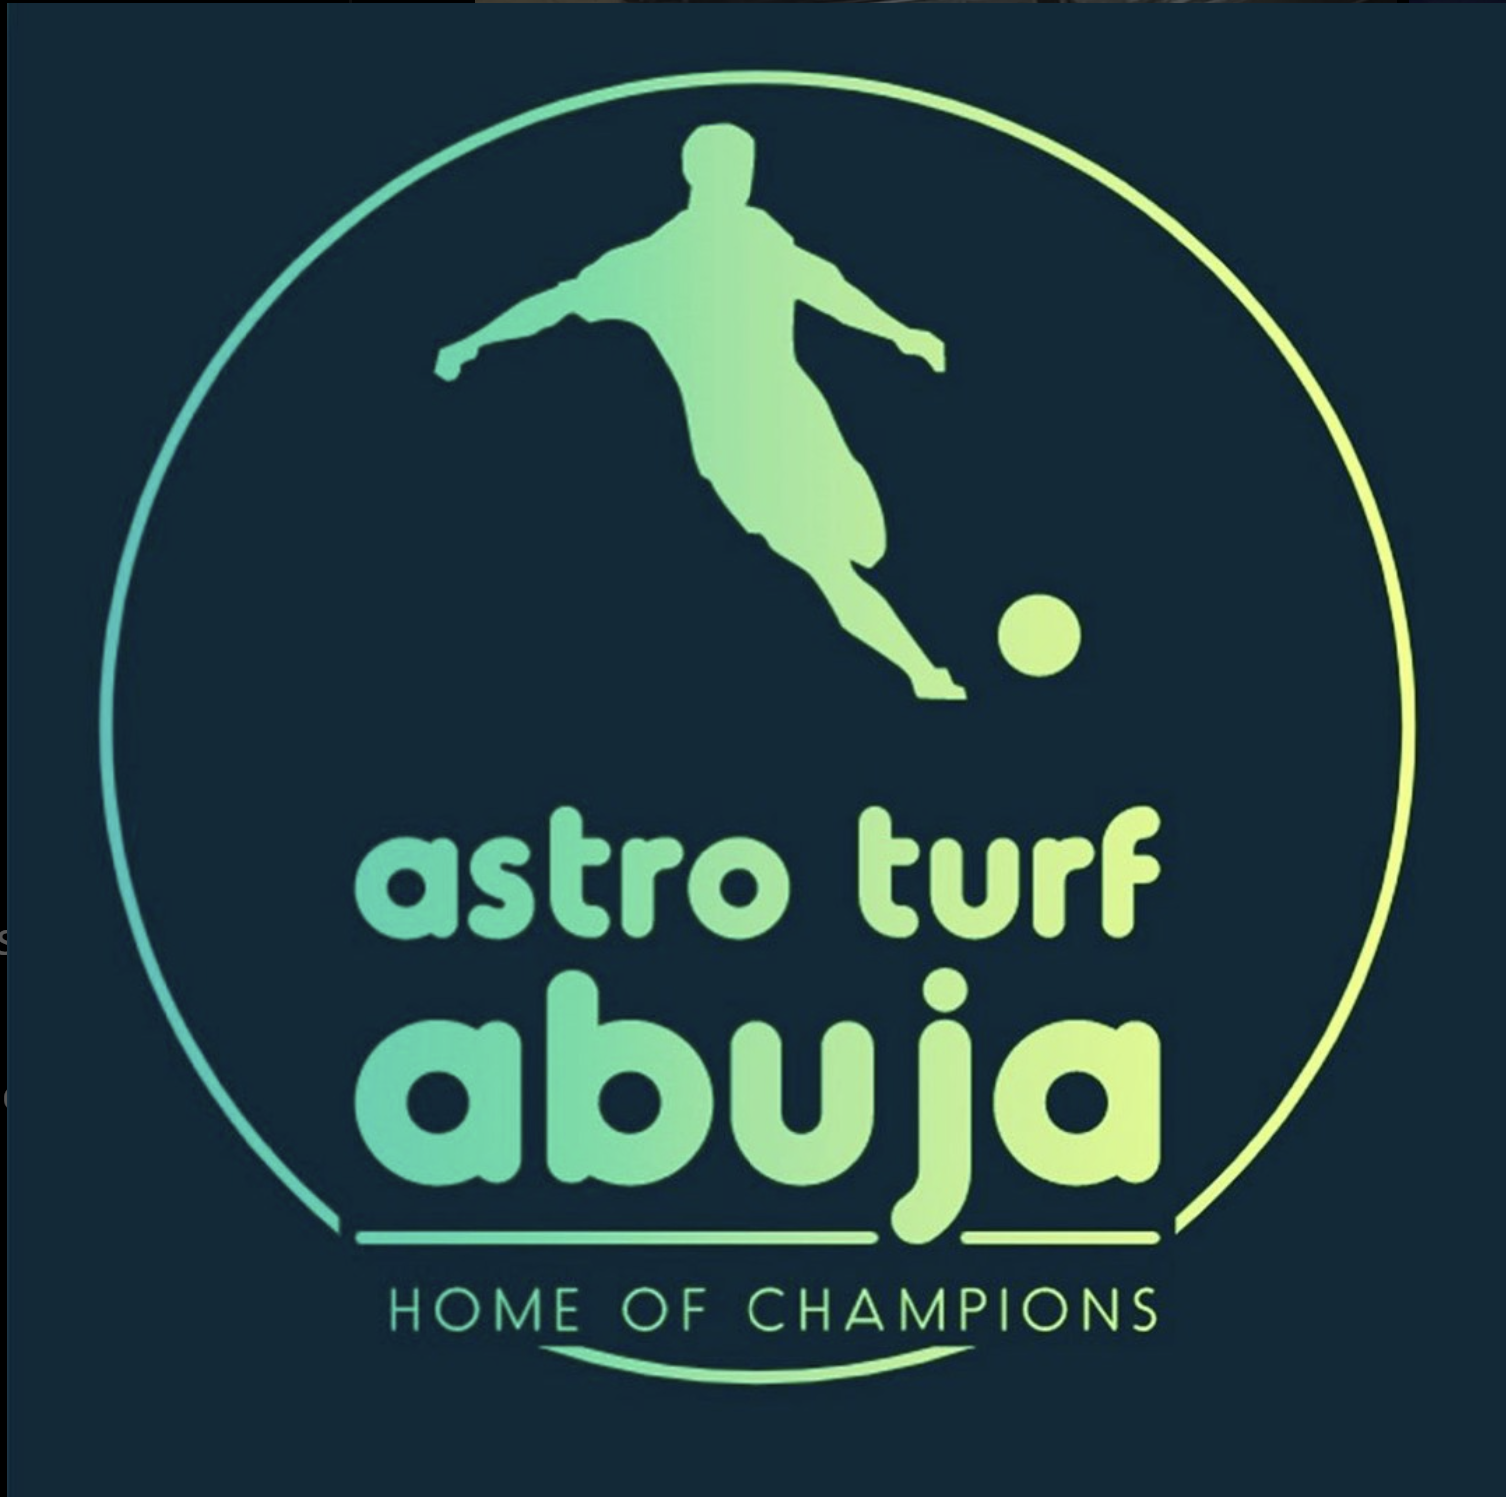
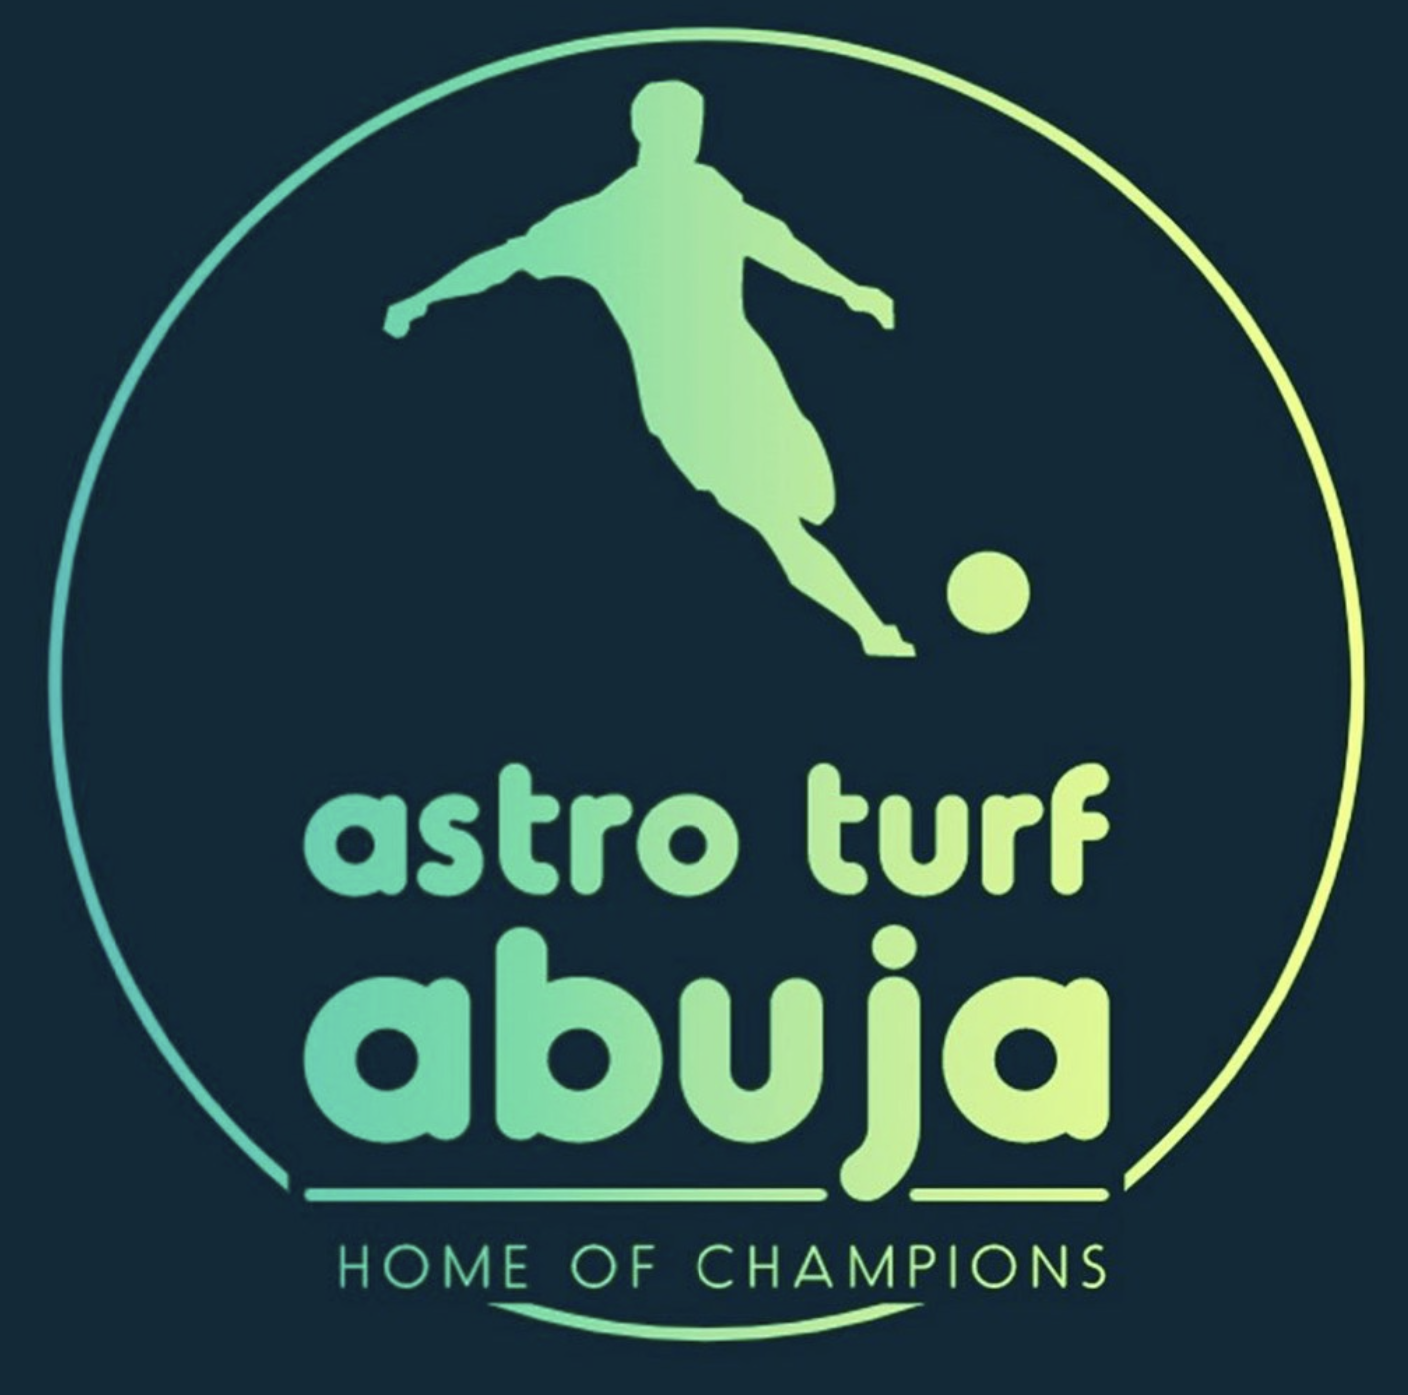
Refactor image URLs in partners.php

diff --git a/partners.php b/partners.php
@@ -19,7 +19,7 @@
             </div>
             <div class="itesm-sp animate__animated animate__zoomIn">
                 <figure>
-                    <img src="images/astroTurfAbuja.png" alt="sp" />
+                    <img src="images/atroturf.png" alt="sp" />
                 </figure>
             </div>
             <div class="itesm-sp animate__animated animate__zoomIn">
